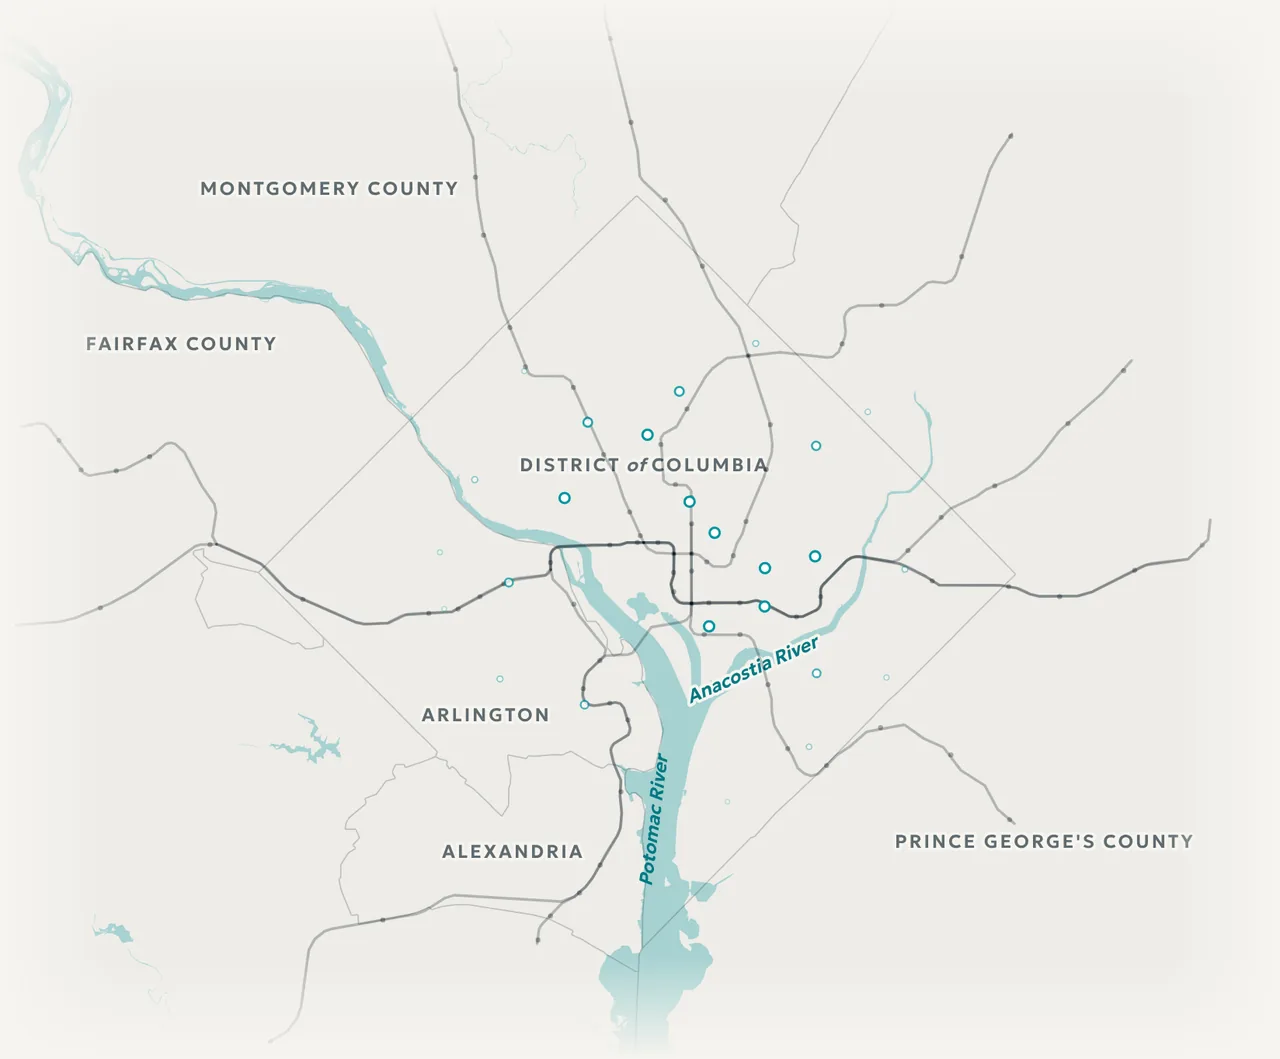
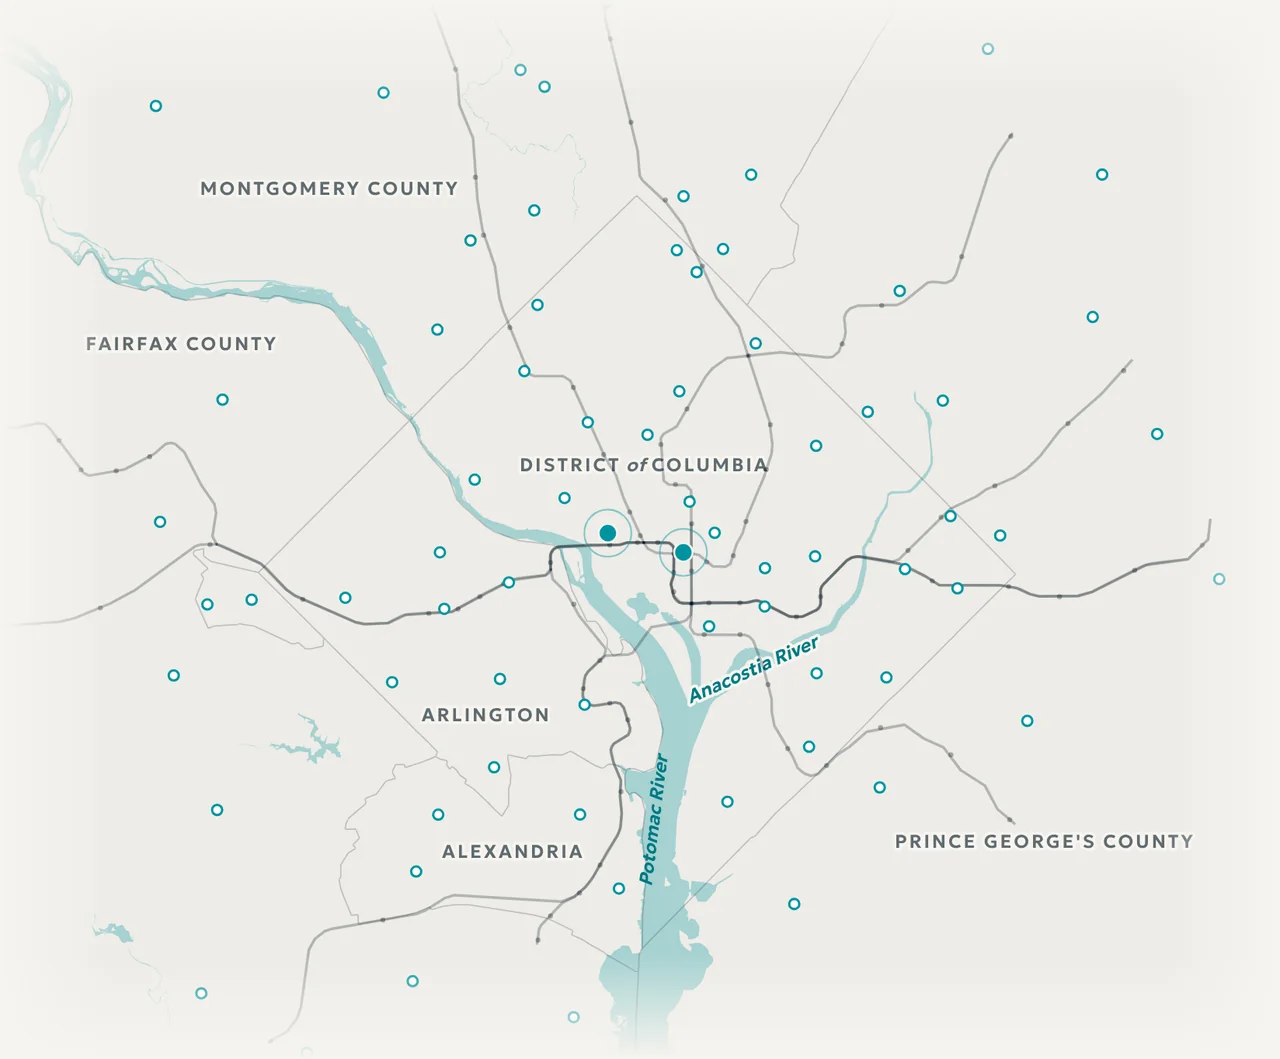
Prototype image: the finished labs map, not a frame mid-animation
Recaptured with motion off: all 71 library branches, the two with sessions
coming up filled and ringed, every Metrorail line and station.

Claude-Session: https://claude.ai/code/session_01YavxCN4CNPAcbQzkCkrPMb

diff --git a/index.html b/index.html
@@ -110,7 +110,7 @@
         <li data-d="2026-12-08"><span class="st" aria-hidden="true"></span><time class="t num" datetime="2026-12-08">Dec 8</time><span class="t">We show what we built and offer it to the national core.</span><span class="here"><span class="t t-small">You are here</span></span></li>
       </ol>
       <h3>The first prototype</h3>
-      <figure class="proto"><img class="snap" src="/assets/proto-labs-map.webp" width="1280" height="1059" style="--ar:.8273" alt="A map of Greater Washington: the Potomac and Anacostia rivers, county lines, the Metrorail lines and their stations, and every public library branch as a small ring, with the branches that have a session coming up drawn larger." loading="lazy"></figure>
+      <figure class="proto"><img class="snap" src="/assets/proto-labs-map.webp" width="1280" height="1059" style="--ar:.8273" alt="A map of Greater Washington: the Potomac and Anacostia rivers, county lines, the Metrorail lines and their stations, and every public library branch in the region as an open ring. The two branches with a session coming up are filled and ringed." loading="lazy"></figure>
       <p>Literal wayfinding, already live on our OLOS fork. Every library branch in the region sits on the Metro map, and the ones with a session coming up are lit and linked. <a href="https://c04-olos.vercel.app/#find">Try it on the live site</a>.</p>
       <p class="t-small quiet">Map data: US Census Bureau, Open Data DC, each library system’s branch list, © OpenStreetMap contributors.</p>
       <h3>The record so far</h3>

diff --git a/content/home/08-where.html b/content/home/08-where.html
@@ -15,7 +15,7 @@ tile: red
   <li data-d="2026-12-08"><span class="st" aria-hidden="true"></span><time class="t num" datetime="2026-12-08">Dec 8</time><span class="t">We show what we built and offer it to the national core.</span><span class="here"><span class="t t-small">You are here</span></span></li>
 </ol>
 <h3>The first prototype</h3>
-<figure class="proto"><img class="snap" src="/assets/proto-labs-map.webp" width="1280" height="1059" style="--ar:.8273" alt="A map of Greater Washington: the Potomac and Anacostia rivers, county lines, the Metrorail lines and their stations, and every public library branch as a small ring, with the branches that have a session coming up drawn larger." loading="lazy"></figure>
+<figure class="proto"><img class="snap" src="/assets/proto-labs-map.webp" width="1280" height="1059" style="--ar:.8273" alt="A map of Greater Washington: the Potomac and Anacostia rivers, county lines, the Metrorail lines and their stations, and every public library branch in the region as an open ring. The two branches with a session coming up are filled and ringed." loading="lazy"></figure>
 <p>Literal wayfinding, already live on our OLOS fork. Every library branch in the region sits on the Metro map, and the ones with a session coming up are lit and linked. <a href="https://c04-olos.vercel.app/#find">Try it on the live site</a>.</p>
 <p class="t-small quiet">Map data: US Census Bureau, Open Data DC, each library system’s branch list, © OpenStreetMap contributors.</p>
 <h3>The record so far</h3>
